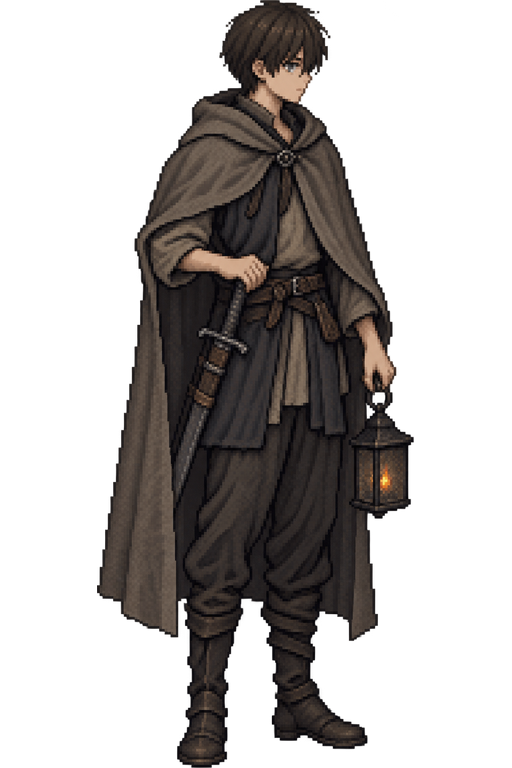
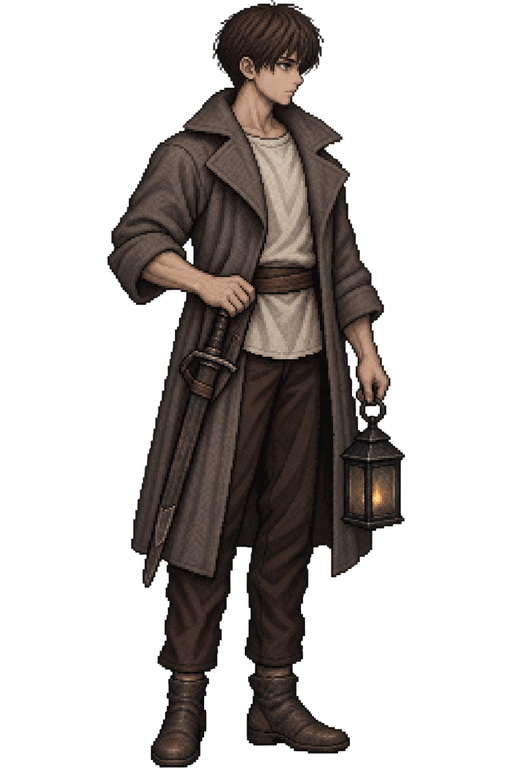
feat: [I-PLAN-ASSETS] 従者・敵の立ち絵、主人公のアクト2の外套、1-01・タイトルの背景の実体を取り込み、セインの立ち絵を差し替える

Changed region(s): [[0.1875, 0.0, 0.8125, 1.0]]

diff --git a/src/ui/assets/art-manifest.ts b/src/ui/assets/art-manifest.ts
@@ -22,6 +22,16 @@ export const ART_FILES: readonly string[] = [
   "art/audio/se-ui-confirm.mp3",
   "art/audio/se-unit-destroy.mp3",
   "art/audio/se-watch-pause.mp3",
+  "art/bg/1-01.jpg",
+  "art/bg/title.jpg",
   "art/icons.svg",
+  "art/standing/dorn.png",
+  "art/standing/garud.png",
+  "art/standing/hero-coat-act2.png",
   "art/standing/hero.png",
+  "art/standing/ish.png",
+  "art/standing/lef.png",
+  "art/standing/mireille.png",
+  "art/standing/rina.png",
+  "art/standing/volg.png",
 ];
